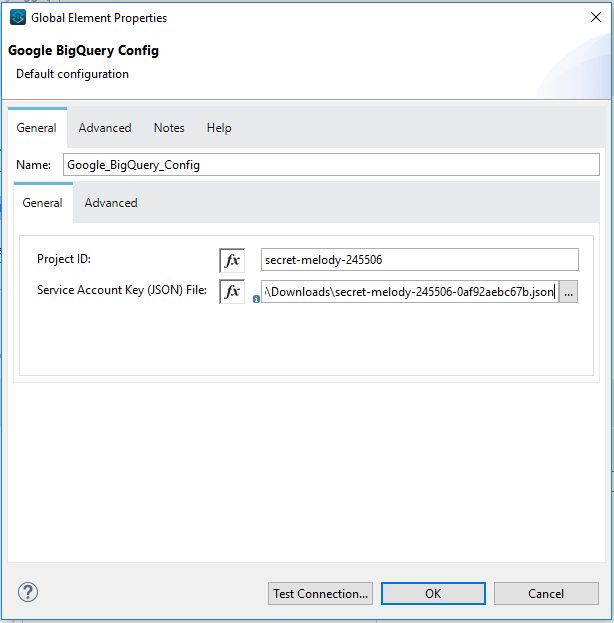
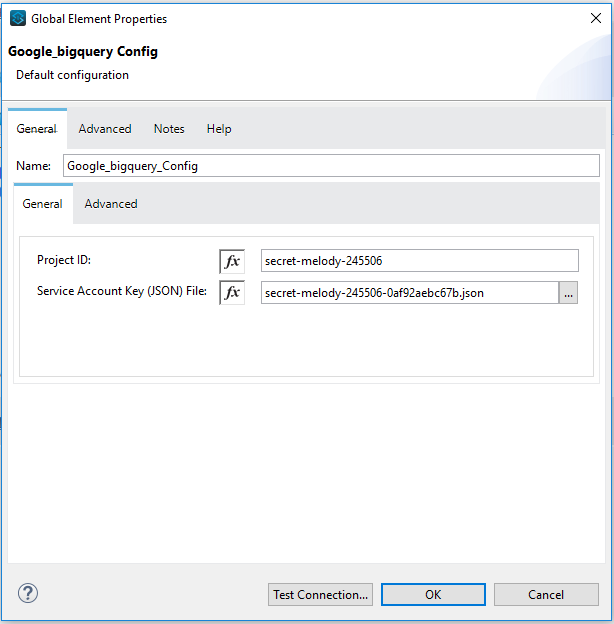
Updating user guide

diff --git a/pages/bigquery_connector/bq_user_guide.md b/pages/bigquery_connector/bq_user_guide.md
@@ -152,7 +152,7 @@ configuration:
 
 <tr><th>Field</th><th>Description</th></tr>
 <tr><td>Project ID</td><td>Project ID of Google Cloud Platform’s project (If any) or create a new project on Google Cloud Platform.</td></tr>
-<tr><td>Service Account Key (JSON) File</td><td>Associated with Google Cloud Platform’s Project , Download the file and provide path of it.</td></tr>
+<tr><td>Service Account Key (JSON) File</td><td>Associated with Google Cloud Platform’s Project. Download the file, place it in <b>BASE_LOCATION_OF_PROJECT/src/main/resources</b> folder and provide it's relative path.</td></tr>
 </table>
 
 ![Bigquery-global-config](./images/mulesoft/bigquery-connector/ProjectConfiguration.png)
@@ -402,7 +402,9 @@ deletes dataset and table once extract job complete execution.
 -   Now create a new sub flow `extractJobFlow`. Drag **Create Job** onto
     the canvas and select **Extract Job** as job config.
 
--   Provide **Destination URIs** , **Source Table and Dataset**.
+-   Provide **Destination URIs** (URI of Google Cloud Storage where you want to extract Google BigQuery's table data).
+
+-	Provide **Source Table and Dataset**
 
 -   **Note:** For **Extract Job** operation, **Only simple types may be
     exported as CSV.**
@@ -451,8 +453,8 @@ deletes dataset and table once extract job complete execution.
 
     vars.jobStatus == 'DONE'
 
--   To the expression side, add **Logger** to log **jobStatus** and add
-    **FLow Reference** to call another sub flow to delete the resources.
+-   To the expression/when side, add **Logger** to log **jobStatus** and add
+    **FLow Reference** to call another sub flow **deleteFlow** to delete the resources.
 
 -   To the default side of the **Choice**, again add the **Logger** to
     log **jobStatus** as expression `vars.jobStatus`.
@@ -765,7 +767,7 @@ records once load job complete execution.
 
     vars.jobStatus == 'DONE'
 
--   To the expression side, add **Query** to the canvas. This **Query**
+-   To the expression/when side, add **Query** to the canvas. This **Query**
     is synchronous operation. That’s why it returns the query result
     (Java object of com.mulesoft.connectors.bigquery.api.TableResult) as
     output.
@@ -1188,8 +1190,12 @@ DONE, get the query result. Atlast, it deletes dataset and table.
 
 -   **Example** -
     `SELECT * FROM <ProjectID.DatasetName.TableName> WHERE ContactDetails.Address.State in UNNEST (@param)`.
-    Here, @param is **Named Query Parameter** and while using query
-    parameter for array in the query string, please use **UNNEST** in
+    Here, @param is **Named Query Parameter**. 
+	
+-	To create **Named Query Parameter**, check Named Query Parameters and provide the key and value as expression.
+	Here, key is **param** and value is **Array of String**.
+	
+-	**Note** - While using query parameter for array in the query string, please use **UNNEST** in
     the query.
 
 -   This **Create Job → Query Job** returns Job details. Hence, save
@@ -1238,7 +1244,7 @@ DONE, get the query result. Atlast, it deletes dataset and table.
 
     vars.jobStatus == 'DONE'
 
--   To the expression side, add **Logger** to log **jobStatus** as
+-   To the expression/when side, add **Logger** to log **jobStatus** as
     expression `vars.jobStatus`.
 
 -   Add **Get Query Result** in the canvas to get the result of the
